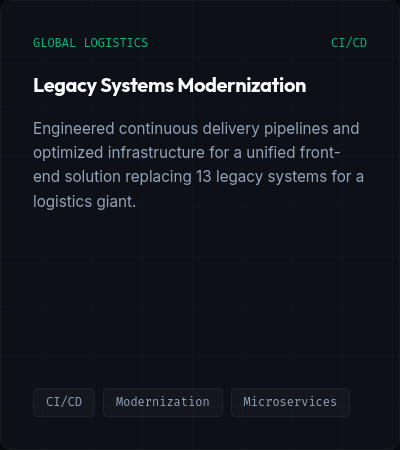
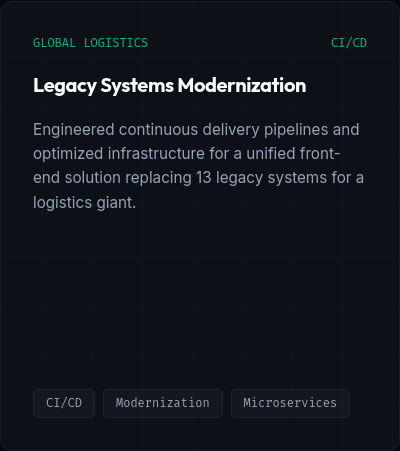
fix(layout): resolve mobile horizontal scrolling and CSS warnings
- Added `overflow-x: hidden` to `html` and `position: relative`, `max-width: 100%` to `body` to prevent absolute elements (like .ambient-glow) from causing mobile layout expansion and hiding the hamburger menu.
- Replaced `100vw` with `100%` in `.network-flow` to avoid desktop horizontal scrollbars.
- Added standard `background-clip` and `appearance` CSS properties alongside their `-webkit-` prefixes for cross-browser compatibility.
- Fixed ESLint unused variable warning in visual tests.
- Updated Playwright visual snapshots affected by strict overflow layout changes.

diff --git a/css/style.css b/css/style.css
@@ -40,6 +40,7 @@
 html {
   scroll-behavior: smooth;
   font-size: 16px;
+  overflow-x: hidden;
 }
 
 body {
@@ -49,6 +50,8 @@ body {
   line-height: 1.6;
   overflow-x: hidden;
   -webkit-font-smoothing: antialiased;
+  position: relative;
+  max-width: 100%;
 }
 
 /* Custom Scrollbar */
@@ -71,7 +74,7 @@ body {
   position: fixed;
   top: 0;
   left: 0;
-  width: 100vw;
+  width: 100%;
   height: 100vh;
   z-index: -2;
   background-image:
@@ -149,6 +152,7 @@ h2 .gradient-text {
     var(--text-primary) 30%,
     var(--text-secondary) 100%
   );
+  background-clip: text;
   -webkit-background-clip: text;
   -webkit-text-fill-color: transparent;
 }
@@ -163,6 +167,7 @@ p {
     var(--accent-cyan) 0%,
     var(--accent-emerald) 100%
   );
+  background-clip: text;
   -webkit-background-clip: text;
   -webkit-text-fill-color: transparent;
 }
@@ -651,6 +656,7 @@ nav a:hover {
 }
 
 .range-slider {
+  appearance: none;
   -webkit-appearance: none;
   width: 100%;
   height: 6px;

diff --git a/ai/style.css b/ai/style.css
@@ -40,6 +40,7 @@
 html {
   scroll-behavior: smooth;
   font-size: 16px;
+  overflow-x: hidden;
 }
 
 body {
@@ -49,6 +50,8 @@ body {
   line-height: 1.6;
   overflow-x: hidden;
   -webkit-font-smoothing: antialiased;
+  position: relative;
+  max-width: 100%;
 }
 
 /* Custom Scrollbar */
@@ -125,6 +128,7 @@ h2 .gradient-text {
     var(--text-primary) 30%,
     var(--text-secondary) 100%
   );
+  background-clip: text;
   -webkit-background-clip: text;
   -webkit-text-fill-color: transparent;
 }
@@ -139,6 +143,7 @@ p {
     var(--accent-cyan) 0%,
     var(--accent-emerald) 100%
   );
+  background-clip: text;
   -webkit-background-clip: text;
   -webkit-text-fill-color: transparent;
 }
@@ -619,6 +624,7 @@ nav a:hover {
 }
 
 .range-slider {
+  appearance: none;
   -webkit-appearance: none;
   width: 100%;
   height: 6px;

diff --git a/tests/visual.spec.js b/tests/visual.spec.js
@@ -47,7 +47,6 @@ test.describe("Visual Regression Tests", () => {
     // Test every single item visually
     const cards = page.locator("#cases-track .case-card");
     const count = await cards.count();
-    const nextBtn = page.locator("#case-studies .carousel-btn.next");
 
     for (let i = 0; i < count; i++) {
       // Ensure the card is fully in view by directly setting scrollLeft to avoid Safari snap hangs